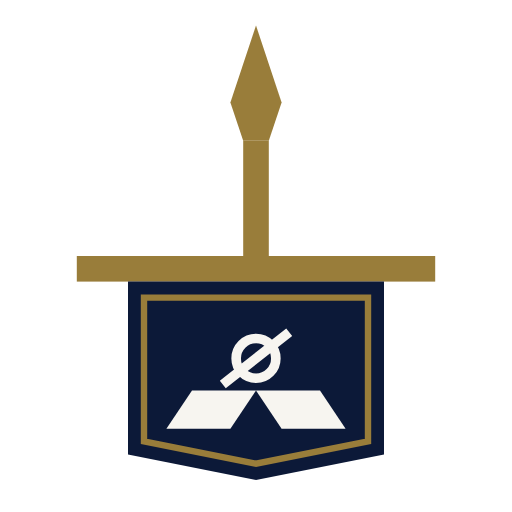
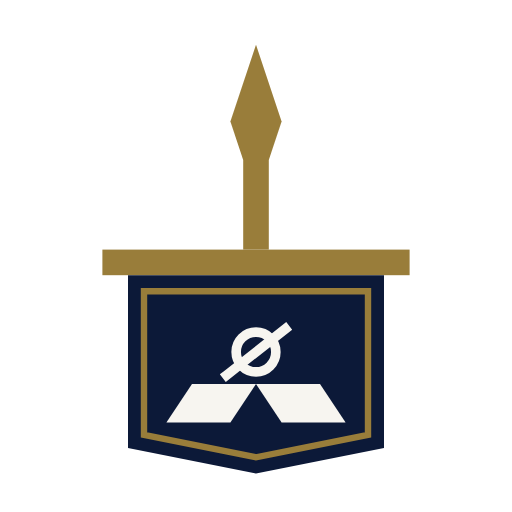
AH-203 fix round 1: a crisp blade, a shorter pole, a shorter bar, one gold edge at 32
A second blind judge preferred the hairline mark to AH-121's, 57 to 40, and named its defects: the blade a match head
or pin at 40 px and a "+" at 16, the pole long, the bar's overhang a sword's crossguard, a double edge at 32, a soft tip
and hem point at 64. Per size:
- 80: the pole 14 units (was 18), the bar 16 to 64 (4 past the banner, was 8), its weight kept at 4, the pole's: an
  earlier judge needed it to show at 32 px on navy, and one weight for both is plainer; the banner now 46% of the
  mark's height (was 44%); the blade, banner, gold line and emblem as before, 1 unit higher.
- 64: its own grid. Bar, banner, gold line and hem whole pixels (crispEdges), so the hem's point is sharp; the blade a
  flat 2 px tip and a 4 px base on whole pixels with straight sides (in 1 px steps it read as a tiered tower at 2x);
  pole 11 px (was 14), bar 3 px past the banner.
- 40: the blade whole-pixel rows, 2, 4, 6, 4 px, two rows each (slanted, it blurred into a match head at 1x); pole 3
  (was 4), bar 2 px past the banner, the banner a row taller.
- 32: the 40's stepped blade; pole 6 (was 8); bar 2 px past the banner (was 3, and the banner 2 px wider now); one gold
  rim on the banner's outside (no navy edge outside it); the ring 2 px around a 4 px hole, its slash 2 px past it.
- 16: a 2 px post with no arms (a tip over a 3 px block read as "+"), on an even axis; the banner 12 wide, a row taller;
  the bar 1 px past it; AH-121's ring and slash.
[…]

Changed region(s): [[0.25, 0.625, 0.75, 0.9375], [0.125, 0.4688, 0.875, 0.5938], [0.4375, 0.0625, 0.5625, 0.3125]]

diff --git a/site/index.html b/site/index.html
@@ -38,7 +38,7 @@
 <aside class="notice-bar" aria-label="Announcement"><p>Free for Windows · a scan never leaves your PC · <a href="#download">Download</a></p></aside>
 <header class="bar">
   <div class="wrap cols">
-    <a class="brand" href="#home" aria-label="Arcas home"><svg class="logo" viewBox="0 0 32 40" aria-hidden="true"><g data-part="spear" fill="#997D3A"><path d="M16 0 L17 1 L18 7 L17 10 H15 L14 7 L15 1 Z"/><rect x="15" y="10" width="2" height="4"/></g><rect data-part="bar" x="1" y="14" width="30" height="3" fill="#997D3A"/><g data-part="banner"><path d="M4 17 H28 V37 L16 40 L4 37 Z" fill="#0C1938"/><path d="M5.5 18.5 H26.5 V35.83 L16 38.45 L5.5 35.83 Z" fill="none" stroke="#997D3A" stroke-linejoin="miter"/></g><g data-part="emblem"><g fill="#F7F5F0"><path d="M16 32 H11 L9 35 H14 Z"/><path d="M16 32 H21 L23 35 H18 Z"/></g><circle cx="16" cy="26" r="3.25" fill="none" stroke="#F7F5F0" stroke-width="1.5"/><path d="M11.5 29.5 L19.5 21.5 L20.5 22.5 L12.5 30.5 Z" fill="#F7F5F0"/></g></svg><span>Arcas</span></a>
+    <a class="brand" href="#home" aria-label="Arcas home"><svg class="logo" viewBox="0 0 32 40" aria-hidden="true"><g data-part="spear" fill="#997D3A"><rect x="15" y="2" width="2" height="1"/><rect x="15" y="3" width="2" height="1"/><rect x="14" y="4" width="4" height="1"/><rect x="14" y="5" width="4" height="1"/><rect x="13" y="6" width="6" height="1"/><rect x="13" y="7" width="6" height="1"/><rect x="14" y="8" width="4" height="1"/><rect x="14" y="9" width="4" height="1"/><rect x="15" y="10" width="2" height="3"/></g><rect data-part="bar" x="2" y="13" width="28" height="3" fill="#997D3A"/><g data-part="banner"><path d="M4 16 H28 V37 L16 40 L4 37 Z" fill="#0C1938"/><path d="M5.5 17.5 H26.5 V35.83 L16 38.45 L5.5 35.83 Z" fill="none" stroke="#997D3A" stroke-linejoin="miter"/></g><g data-part="emblem"><g fill="#F7F5F0"><path d="M16 31 H11 L9 34 H14 Z"/><path d="M16 31 H21 L23 34 H18 Z"/></g><circle cx="16" cy="25" r="3.25" fill="none" stroke="#F7F5F0" stroke-width="1.5"/><path d="M11.5 28.5 L19.5 20.5 L20.5 21.5 L12.5 29.5 Z" fill="#F7F5F0"/></g></svg><span>Arcas</span></a>
     <button class="menu-btn" type="button" aria-expanded="false" aria-controls="main-nav">Menu</button><nav class="links" id="main-nav" aria-label="Main"><a href="index.html" aria-current="page">Product</a><a href="checks.html">Checks</a><a href="privacy.html">Privacy &amp; security</a><a href="support.html">Support</a><a class="btn-trim" href="#download">Download</a></nav>
   </div>
 </header>
@@ -320,7 +320,7 @@ Units jumped sharply near <span class="iso-date">2026-01-26</span>"</p>
       <p class="sec-lede calm reveal-item">On a work computer, ask your IT team first. Arcas installs only on a Windows account that is an administrator on that PC.</p>
       <div class="stage reveal-item">
         <!-- the mark: the Spear and Banner, its large drawing (docs/design/logo/mark-80.svg), one unit a pixel at 80 so every straight edge lands on a whole pixel at 240 and 320 px, flat site colors and solid navy details (AH-121); nothing here carries a transform at rest -->
-        <svg class="logo logo-lg" viewBox="0 0 80 80" aria-hidden="true"><g data-part="spear" fill="#997D3A"><path d="M40 4 L44 16 L42 22 H38 L36 16 Z"/><rect x="38" y="22" width="4" height="18"/></g><rect data-part="bar" x="12" y="40" width="56" height="4" fill="#997D3A"/><g data-part="banner"><path d="M20 44 H60 V71 L40 75 L20 71 Z" fill="#0C1938"/><path d="M22.5 46.5 H57.5 V68.95 L40 72.45 L22.5 68.95 Z" fill="none" stroke="#997D3A" stroke-linejoin="miter"/></g><g data-part="emblem"><g fill="#F7F5F0"><path d="M30 61 H40 L36 67 H26 Z"/><path d="M50 61 H40 L44 67 H54 Z"/></g><circle cx="40" cy="56" r="3.1" fill="none" stroke="#F7F5F0" stroke-width="1.5"/><path d="M35.4 59.62 L44.6 52.38" fill="none" stroke="#F7F5F0" stroke-width="1.5" stroke-linecap="square"/></g></svg>
+        <svg class="logo logo-lg" viewBox="0 0 80 80" aria-hidden="true"><g data-part="spear" fill="#997D3A"><path d="M40 7 L44 19 L42 25 H38 L36 19 Z"/><rect x="38" y="25" width="4" height="14"/></g><rect data-part="bar" x="16" y="39" width="48" height="4" fill="#997D3A"/><g data-part="banner"><path d="M20 43 H60 V70 L40 74 L20 70 Z" fill="#0C1938"/><path d="M22.5 45.5 H57.5 V67.95 L40 71.45 L22.5 67.95 Z" fill="none" stroke="#997D3A" stroke-linejoin="miter"/></g><g data-part="emblem"><g fill="#F7F5F0"><path d="M30 60 H40 L36 66 H26 Z"/><path d="M50 60 H40 L44 66 H54 Z"/></g><circle cx="40" cy="55" r="3.1" fill="none" stroke="#F7F5F0" stroke-width="1.5"/><path d="M35.4 58.62 L44.6 51.38" fill="none" stroke="#F7F5F0" stroke-width="1.5" stroke-linecap="square"/></g></svg>
         <a class="btn btn-primary" href="https://github.com/ricepillow3000/excel-anomaly-hunter/releases/latest/download/Arcas.exe"><svg viewBox="0 0 24 24" fill="none" stroke="currentColor" stroke-width="1.8" aria-hidden="true"><path d="M12 4v11M7 10l5 5 5-5M5 20h14"/></svg>Download for Windows</a>
         <p class="license-line">Free for any number of people. Open source under the <a href="https://github.com/ricepillow3000/excel-anomaly-hunter/blob/main/LICENSE">MIT License</a>.</p>
         <p class="stage-note">Your browser may say Arcas.exe isn't commonly downloaded. Click the three dots beside it, then Keep, then Keep anyway. It says this because the file is new and not signed yet.</p>

diff --git a/frontend/selfcheck.js b/frontend/selfcheck.js
@@ -10,6 +10,7 @@ import { read as readLimit } from "./pages/limits.js";
 import { strengthHint, asStrength, levelAt, levelWord } from "./pages/strength.js";
 import { exactFixes, safeUndo } from "./features/autofix.js";
 import { readdirSync, readFileSync } from "node:fs";
+import { inflateSync } from "node:zlib";
 import { hash, rowHash, codes, codeAt, asBook, decide, PER_SHEET, SHEETS } from "./features/decisions.js";
 import { WORKBOOK_KEYS } from "./features/forget.js";
 import { asHighlights, KEPT } from "./features/highlight.js";
@@ -911,6 +912,36 @@ for (const f of readdirSync(new URL(".", import.meta.url)).filter((f) => f.endsW
   assert.equal(checkedSaid("Series 3", ["B2:B500"]), 'Checked B2:B500 on "Series 3": nothing unusual.');
   assert.equal(checkedSaid("S", ["A1", "B2", "A1", "C3", "D4", "E5"]), 'Checked A1, B2, C3 and 2 more on "S": nothing unusual.', "each address once, 3 named");
   assert.equal(noteSaid("Sales", findingsAt(rows, s, {}, ["B3"])[0], 3, {}), 'Sheet "Sales", cell B3: Probably wrong. Units is 900, above its usual limit of 90 (likely 90). And 3 more in what you changed.');
+}
+
+// AH-203 fix round 1: the 16 and 32 px icons (ribbon, favicon, the pane's logo at 1x), read pixel by pixel. Each pixel is
+// gold, navy, paper or empty; one gold edge, never navy, meets the outside (a navy edge outside a gold line read as a
+// double edge on paper); at 16 the spear is a post no wider than 2 px (a tip over a 3 px block read as a "+" cross); at 32
+// it is pointed, its widest row 3 times its tip and held for 2 rows (a single wider row read as arms, a 4 px one as a club)
+{
+  const rgba = (file) => { // an 8-bit RGBA PNG, as Chromium writes it
+    const b = readFileSync(new URL(file, import.meta.url)), w = b.readUInt32BE(16), h = b.readUInt32BE(20), parts = [];
+    for (let i = 8; i < b.length; i += 12 + b.readUInt32BE(i)) if (b.toString("latin1", i + 4, i + 8) === "IDAT") parts.push(b.subarray(i + 8, i + 8 + b.readUInt32BE(i)));
+    const raw = inflateSync(Buffer.concat(parts)), out = Buffer.alloc(w * h * 4), row = w * 4;
+    for (let y = 0; y < h; y++) for (let x = 0; x < row; x++) {
+      const f = raw[y * (row + 1)], v = raw[y * (row + 1) + 1 + x], a = x >= 4 ? out[y * row + x - 4] : 0, up = y ? out[(y - 1) * row + x] : 0, c = x >= 4 && y ? out[(y - 1) * row + x - 4] : 0;
+      const p = a + up - c, pr = Math.abs(p - a) <= Math.abs(p - up) && Math.abs(p - a) <= Math.abs(p - c) ? a : Math.abs(p - up) <= Math.abs(p - c) ? up : c;
+      out[y * row + x] = (v + [0, a, up, (a + up) >> 1, pr][f]) & 255;
+    }
+    return { w, h, at: (x, y) => x < 0 || y < 0 || x >= w || y >= h ? "." : ({ "0,0,0,0": ".", "153,125,58,255": "g", "12,25,56,255": "n", "247,245,240,255": "p" })[[...out.subarray((y * w + x) * 4, (y * w + x) * 4 + 4)].join()] || "?" };
+  };
+  for (const n of [16, 32]) {
+    const { w, h, at } = rgba(`assets/crest3-${n}.png`), all = [];
+    for (let y = 0; y < h; y++) for (let x = 0; x < w; x++) all.push([x, y, at(x, y)]);
+    assert.deepEqual(all.filter(([, , c]) => c === "?").length, 0, `crest3-${n}.png: a pixel outside the palette`);
+    const edge = all.filter(([x, y, c]) => c === "n" && [[1, 0], [-1, 0], [0, 1], [0, -1]].some(([dx, dy]) => at(x + dx, y + dy) === "."));
+    assert.deepEqual(edge.length, 0, `crest3-${n}.png: navy meets the outside at ${edge.slice(0, 3).map(([x, y]) => x + "," + y).join(" ")}`);
+    const widths = [];
+    for (let y = 0; y < h; y++) { const xs = all.filter(([, yy, c]) => yy === y && c === "g").map(([x]) => x); if (xs.length && Math.max(...xs) - Math.min(...xs) + 1 > w / 2) break; if (xs.length) widths.push(Math.max(...xs) - Math.min(...xs) + 1); }
+    const top = Math.max(...widths);
+    if (n === 16) assert.ok(top <= 2, `crest3-16.png: the spear is ${top} px wide somewhere (rows ${widths}): arms read as a cross`);
+    else assert.ok(top >= 3 * widths[0] && widths.filter((x) => x === top).length >= 2, `crest3-32.png: the spear (rows ${widths}) is not pointed`);
+  }
 }
 
 console.log("panel self-check passed");

diff --git a/site/404.html b/site/404.html
@@ -19,7 +19,7 @@
 <aside class="notice-bar" aria-label="Announcement"><p>Free for Windows · a scan never leaves your PC · <a href="/excel-anomaly-hunter/index.html#download">Download</a></p></aside>
 <header class="bar">
   <div class="wrap cols">
-    <a class="brand" href="/excel-anomaly-hunter/" aria-label="Arcas home"><svg class="logo" viewBox="0 0 32 40" aria-hidden="true"><g data-part="spear" fill="#997D3A"><path d="M16 0 L17 1 L18 7 L17 10 H15 L14 7 L15 1 Z"/><rect x="15" y="10" width="2" height="4"/></g><rect data-part="bar" x="1" y="14" width="30" height="3" fill="#997D3A"/><g data-part="banner"><path d="M4 17 H28 V37 L16 40 L4 37 Z" fill="#0C1938"/><path d="M5.5 18.5 H26.5 V35.83 L16 38.45 L5.5 35.83 Z" fill="none" stroke="#997D3A" stroke-linejoin="miter"/></g><g data-part="emblem"><g fill="#F7F5F0"><path d="M16 32 H11 L9 35 H14 Z"/><path d="M16 32 H21 L23 35 H18 Z"/></g><circle cx="16" cy="26" r="3.25" fill="none" stroke="#F7F5F0" stroke-width="1.5"/><path d="M11.5 29.5 L19.5 21.5 L20.5 22.5 L12.5 30.5 Z" fill="#F7F5F0"/></g></svg><span>Arcas</span></a>
+    <a class="brand" href="/excel-anomaly-hunter/" aria-label="Arcas home"><svg class="logo" viewBox="0 0 32 40" aria-hidden="true"><g data-part="spear" fill="#997D3A"><rect x="15" y="2" width="2" height="1"/><rect x="15" y="3" width="2" height="1"/><rect x="14" y="4" width="4" height="1"/><rect x="14" y="5" width="4" height="1"/><rect x="13" y="6" width="6" height="1"/><rect x="13" y="7" width="6" height="1"/><rect x="14" y="8" width="4" height="1"/><rect x="14" y="9" width="4" height="1"/><rect x="15" y="10" width="2" height="3"/></g><rect data-part="bar" x="2" y="13" width="28" height="3" fill="#997D3A"/><g data-part="banner"><path d="M4 16 H28 V37 L16 40 L4 37 Z" fill="#0C1938"/><path d="M5.5 17.5 H26.5 V35.83 L16 38.45 L5.5 35.83 Z" fill="none" stroke="#997D3A" stroke-linejoin="miter"/></g><g data-part="emblem"><g fill="#F7F5F0"><path d="M16 31 H11 L9 34 H14 Z"/><path d="M16 31 H21 L23 34 H18 Z"/></g><circle cx="16" cy="25" r="3.25" fill="none" stroke="#F7F5F0" stroke-width="1.5"/><path d="M11.5 28.5 L19.5 20.5 L20.5 21.5 L12.5 29.5 Z" fill="#F7F5F0"/></g></svg><span>Arcas</span></a>
     <nav class="links" aria-label="Main"><a href="/excel-anomaly-hunter/">Product</a><a href="/excel-anomaly-hunter/checks.html">Checks</a><a href="/excel-anomaly-hunter/privacy.html">Privacy &amp; security</a><a href="/excel-anomaly-hunter/support.html">Support</a><a class="btn-trim" href="/excel-anomaly-hunter/index.html#download">Download</a></nav>
   </div>
 </header>

diff --git a/site/checks.html b/site/checks.html
@@ -33,7 +33,7 @@
 <aside class="notice-bar" aria-label="Announcement"><p>Free for Windows · a scan never leaves your PC · <a href="index.html#download">Download</a></p></aside>
 <header class="bar">
   <div class="wrap cols">
-    <a class="brand" href="index.html" aria-label="Arcas home"><svg class="logo" viewBox="0 0 32 40" aria-hidden="true"><g data-part="spear" fill="#997D3A"><path d="M16 0 L17 1 L18 7 L17 10 H15 L14 7 L15 1 Z"/><rect x="15" y="10" width="2" height="4"/></g><rect data-part="bar" x="1" y="14" width="30" height="3" fill="#997D3A"/><g data-part="banner"><path d="M4 17 H28 V37 L16 40 L4 37 Z" fill="#0C1938"/><path d="M5.5 18.5 H26.5 V35.83 L16 38.45 L5.5 35.83 Z" fill="none" stroke="#997D3A" stroke-linejoin="miter"/></g><g data-part="emblem"><g fill="#F7F5F0"><path d="M16 32 H11 L9 35 H14 Z"/><path d="M16 32 H21 L23 35 H18 Z"/></g><circle cx="16" cy="26" r="3.25" fill="none" stroke="#F7F5F0" stroke-width="1.5"/><path d="M11.5 29.5 L19.5 21.5 L20.5 22.5 L12.5 30.5 Z" fill="#F7F5F0"/></g></svg><span>Arcas</span></a>
+    <a class="brand" href="index.html" aria-label="Arcas home"><svg class="logo" viewBox="0 0 32 40" aria-hidden="true"><g data-part="spear" fill="#997D3A"><rect x="15" y="2" width="2" height="1"/><rect x="15" y="3" width="2" height="1"/><rect x="14" y="4" width="4" height="1"/><rect x="14" y="5" width="4" height="1"/><rect x="13" y="6" width="6" height="1"/><rect x="13" y="7" width="6" height="1"/><rect x="14" y="8" width="4" height="1"/><rect x="14" y="9" width="4" height="1"/><rect x="15" y="10" width="2" height="3"/></g><rect data-part="bar" x="2" y="13" width="28" height="3" fill="#997D3A"/><g data-part="banner"><path d="M4 16 H28 V37 L16 40 L4 37 Z" fill="#0C1938"/><path d="M5.5 17.5 H26.5 V35.83 L16 38.45 L5.5 35.83 Z" fill="none" stroke="#997D3A" stroke-linejoin="miter"/></g><g data-part="emblem"><g fill="#F7F5F0"><path d="M16 31 H11 L9 34 H14 Z"/><path d="M16 31 H21 L23 34 H18 Z"/></g><circle cx="16" cy="25" r="3.25" fill="none" stroke="#F7F5F0" stroke-width="1.5"/><path d="M11.5 28.5 L19.5 20.5 L20.5 21.5 L12.5 29.5 Z" fill="#F7F5F0"/></g></svg><span>Arcas</span></a>
     <button class="menu-btn" type="button" aria-expanded="false" aria-controls="main-nav">Menu</button><nav class="links" id="main-nav" aria-label="Main"><a href="index.html">Product</a><a href="checks.html" aria-current="page">Checks</a><a href="privacy.html">Privacy &amp; security</a><a href="support.html">Support</a><a class="btn-trim" href="index.html#download">Download</a></nav>
   </div>
 </header>

diff --git a/site/privacy.html b/site/privacy.html
@@ -35,7 +35,7 @@
 <aside class="notice-bar" aria-label="Announcement"><p>Free for Windows · a scan never leaves your PC · <a href="index.html#download">Download</a></p></aside>
 <header class="bar">
   <div class="wrap cols">
-    <a class="brand" href="index.html" aria-label="Arcas home"><svg class="logo" viewBox="0 0 32 40" aria-hidden="true"><g data-part="spear" fill="#997D3A"><path d="M16 0 L17 1 L18 7 L17 10 H15 L14 7 L15 1 Z"/><rect x="15" y="10" width="2" height="4"/></g><rect data-part="bar" x="1" y="14" width="30" height="3" fill="#997D3A"/><g data-part="banner"><path d="M4 17 H28 V37 L16 40 L4 37 Z" fill="#0C1938"/><path d="M5.5 18.5 H26.5 V35.83 L16 38.45 L5.5 35.83 Z" fill="none" stroke="#997D3A" stroke-linejoin="miter"/></g><g data-part="emblem"><g fill="#F7F5F0"><path d="M16 32 H11 L9 35 H14 Z"/><path d="M16 32 H21 L23 35 H18 Z"/></g><circle cx="16" cy="26" r="3.25" fill="none" stroke="#F7F5F0" stroke-width="1.5"/><path d="M11.5 29.5 L19.5 21.5 L20.5 22.5 L12.5 30.5 Z" fill="#F7F5F0"/></g></svg><span>Arcas</span></a>
+    <a class="brand" href="index.html" aria-label="Arcas home"><svg class="logo" viewBox="0 0 32 40" aria-hidden="true"><g data-part="spear" fill="#997D3A"><rect x="15" y="2" width="2" height="1"/><rect x="15" y="3" width="2" height="1"/><rect x="14" y="4" width="4" height="1"/><rect x="14" y="5" width="4" height="1"/><rect x="13" y="6" width="6" height="1"/><rect x="13" y="7" width="6" height="1"/><rect x="14" y="8" width="4" height="1"/><rect x="14" y="9" width="4" height="1"/><rect x="15" y="10" width="2" height="3"/></g><rect data-part="bar" x="2" y="13" width="28" height="3" fill="#997D3A"/><g data-part="banner"><path d="M4 16 H28 V37 L16 40 L4 37 Z" fill="#0C1938"/><path d="M5.5 17.5 H26.5 V35.83 L16 38.45 L5.5 35.83 Z" fill="none" stroke="#997D3A" stroke-linejoin="miter"/></g><g data-part="emblem"><g fill="#F7F5F0"><path d="M16 31 H11 L9 34 H14 Z"/><path d="M16 31 H21 L23 34 H18 Z"/></g><circle cx="16" cy="25" r="3.25" fill="none" stroke="#F7F5F0" stroke-width="1.5"/><path d="M11.5 28.5 L19.5 20.5 L20.5 21.5 L12.5 29.5 Z" fill="#F7F5F0"/></g></svg><span>Arcas</span></a>
     <button class="menu-btn" type="button" aria-expanded="false" aria-controls="main-nav">Menu</button><nav class="links" id="main-nav" aria-label="Main"><a href="index.html">Product</a><a href="checks.html">Checks</a><a href="privacy.html" aria-current="page">Privacy &amp; security</a><a href="support.html">Support</a><a class="btn-trim" href="index.html#download">Download</a></nav>
   </div>
 </header>

diff --git a/site/support.html b/site/support.html
@@ -33,7 +33,7 @@
 <aside class="notice-bar" aria-label="Announcement"><p>Free for Windows · a scan never leaves your PC · <a href="index.html#download">Download</a></p></aside>
 <header class="bar">
   <div class="wrap cols">
-    <a class="brand" href="index.html" aria-label="Arcas home"><svg class="logo" viewBox="0 0 32 40" aria-hidden="true"><g data-part="spear" fill="#997D3A"><path d="M16 0 L17 1 L18 7 L17 10 H15 L14 7 L15 1 Z"/><rect x="15" y="10" width="2" height="4"/></g><rect data-part="bar" x="1" y="14" width="30" height="3" fill="#997D3A"/><g data-part="banner"><path d="M4 17 H28 V37 L16 40 L4 37 Z" fill="#0C1938"/><path d="M5.5 18.5 H26.5 V35.83 L16 38.45 L5.5 35.83 Z" fill="none" stroke="#997D3A" stroke-linejoin="miter"/></g><g data-part="emblem"><g fill="#F7F5F0"><path d="M16 32 H11 L9 35 H14 Z"/><path d="M16 32 H21 L23 35 H18 Z"/></g><circle cx="16" cy="26" r="3.25" fill="none" stroke="#F7F5F0" stroke-width="1.5"/><path d="M11.5 29.5 L19.5 21.5 L20.5 22.5 L12.5 30.5 Z" fill="#F7F5F0"/></g></svg><span>Arcas</span></a>
+    <a class="brand" href="index.html" aria-label="Arcas home"><svg class="logo" viewBox="0 0 32 40" aria-hidden="true"><g data-part="spear" fill="#997D3A"><rect x="15" y="2" width="2" height="1"/><rect x="15" y="3" width="2" height="1"/><rect x="14" y="4" width="4" height="1"/><rect x="14" y="5" width="4" height="1"/><rect x="13" y="6" width="6" height="1"/><rect x="13" y="7" width="6" height="1"/><rect x="14" y="8" width="4" height="1"/><rect x="14" y="9" width="4" height="1"/><rect x="15" y="10" width="2" height="3"/></g><rect data-part="bar" x="2" y="13" width="28" height="3" fill="#997D3A"/><g data-part="banner"><path d="M4 16 H28 V37 L16 40 L4 37 Z" fill="#0C1938"/><path d="M5.5 17.5 H26.5 V35.83 L16 38.45 L5.5 35.83 Z" fill="none" stroke="#997D3A" stroke-linejoin="miter"/></g><g data-part="emblem"><g fill="#F7F5F0"><path d="M16 31 H11 L9 34 H14 Z"/><path d="M16 31 H21 L23 34 H18 Z"/></g><circle cx="16" cy="25" r="3.25" fill="none" stroke="#F7F5F0" stroke-width="1.5"/><path d="M11.5 28.5 L19.5 20.5 L20.5 21.5 L12.5 29.5 Z" fill="#F7F5F0"/></g></svg><span>Arcas</span></a>
     <button class="menu-btn" type="button" aria-expanded="false" aria-controls="main-nav">Menu</button><nav class="links" id="main-nav" aria-label="Main"><a href="index.html">Product</a><a href="checks.html">Checks</a><a href="privacy.html">Privacy &amp; security</a><a href="support.html" aria-current="page">Support</a><a class="btn-trim" href="index.html#download">Download</a></nav>
   </div>
 </header>

diff --git a/site/cases.html b/site/cases.html
@@ -33,7 +33,7 @@
 <aside class="notice-bar" aria-label="Announcement"><p>Free for Windows · a scan never leaves your PC · <a href="index.html#download">Download</a></p></aside>
 <header class="bar">
   <div class="wrap cols">
-    <a class="brand" href="index.html" aria-label="Arcas home"><svg class="logo" viewBox="0 0 32 40" aria-hidden="true"><g data-part="spear" fill="#997D3A"><path d="M16 0 L17 1 L18 7 L17 10 H15 L14 7 L15 1 Z"/><rect x="15" y="10" width="2" height="4"/></g><rect data-part="bar" x="1" y="14" width="30" height="3" fill="#997D3A"/><g data-part="banner"><path d="M4 17 H28 V37 L16 40 L4 37 Z" fill="#0C1938"/><path d="M5.5 18.5 H26.5 V35.83 L16 38.45 L5.5 35.83 Z" fill="none" stroke="#997D3A" stroke-linejoin="miter"/></g><g data-part="emblem"><g fill="#F7F5F0"><path d="M16 32 H11 L9 35 H14 Z"/><path d="M16 32 H21 L23 35 H18 Z"/></g><circle cx="16" cy="26" r="3.25" fill="none" stroke="#F7F5F0" stroke-width="1.5"/><path d="M11.5 29.5 L19.5 21.5 L20.5 22.5 L12.5 30.5 Z" fill="#F7F5F0"/></g></svg><span>Arcas</span></a>
+    <a class="brand" href="index.html" aria-label="Arcas home"><svg class="logo" viewBox="0 0 32 40" aria-hidden="true"><g data-part="spear" fill="#997D3A"><rect x="15" y="2" width="2" height="1"/><rect x="15" y="3" width="2" height="1"/><rect x="14" y="4" width="4" height="1"/><rect x="14" y="5" width="4" height="1"/><rect x="13" y="6" width="6" height="1"/><rect x="13" y="7" width="6" height="1"/><rect x="14" y="8" width="4" height="1"/><rect x="14" y="9" width="4" height="1"/><rect x="15" y="10" width="2" height="3"/></g><rect data-part="bar" x="2" y="13" width="28" height="3" fill="#997D3A"/><g data-part="banner"><path d="M4 16 H28 V37 L16 40 L4 37 Z" fill="#0C1938"/><path d="M5.5 17.5 H26.5 V35.83 L16 38.45 L5.5 35.83 Z" fill="none" stroke="#997D3A" stroke-linejoin="miter"/></g><g data-part="emblem"><g fill="#F7F5F0"><path d="M16 31 H11 L9 34 H14 Z"/><path d="M16 31 H21 L23 34 H18 Z"/></g><circle cx="16" cy="25" r="3.25" fill="none" stroke="#F7F5F0" stroke-width="1.5"/><path d="M11.5 28.5 L19.5 20.5 L20.5 21.5 L12.5 29.5 Z" fill="#F7F5F0"/></g></svg><span>Arcas</span></a>
     <button class="menu-btn" type="button" aria-expanded="false" aria-controls="main-nav">Menu</button><nav class="links" id="main-nav" aria-label="Main"><a href="index.html">Product</a><a href="checks.html">Checks</a><a href="privacy.html">Privacy &amp; security</a><a href="support.html">Support</a><a class="btn-trim" href="index.html#download">Download</a></nav>
   </div>
 </header>

diff --git a/site/code-signing.html b/site/code-signing.html
@@ -33,7 +33,7 @@
 <aside class="notice-bar" aria-label="Announcement"><p>Free for Windows · a scan never leaves your PC · <a href="index.html#download">Download</a></p></aside>
 <header class="bar">
   <div class="wrap cols">
-    <a class="brand" href="index.html" aria-label="Arcas home"><svg class="logo" viewBox="0 0 32 40" aria-hidden="true"><g data-part="spear" fill="#997D3A"><path d="M16 0 L17 1 L18 7 L17 10 H15 L14 7 L15 1 Z"/><rect x="15" y="10" width="2" height="4"/></g><rect data-part="bar" x="1" y="14" width="30" height="3" fill="#997D3A"/><g data-part="banner"><path d="M4 17 H28 V37 L16 40 L4 37 Z" fill="#0C1938"/><path d="M5.5 18.5 H26.5 V35.83 L16 38.45 L5.5 35.83 Z" fill="none" stroke="#997D3A" stroke-linejoin="miter"/></g><g data-part="emblem"><g fill="#F7F5F0"><path d="M16 32 H11 L9 35 H14 Z"/><path d="M16 32 H21 L23 35 H18 Z"/></g><circle cx="16" cy="26" r="3.25" fill="none" stroke="#F7F5F0" stroke-width="1.5"/><path d="M11.5 29.5 L19.5 21.5 L20.5 22.5 L12.5 30.5 Z" fill="#F7F5F0"/></g></svg><span>Arcas</span></a>
+    <a class="brand" href="index.html" aria-label="Arcas home"><svg class="logo" viewBox="0 0 32 40" aria-hidden="true"><g data-part="spear" fill="#997D3A"><rect x="15" y="2" width="2" height="1"/><rect x="15" y="3" width="2" height="1"/><rect x="14" y="4" width="4" height="1"/><rect x="14" y="5" width="4" height="1"/><rect x="13" y="6" width="6" height="1"/><rect x="13" y="7" width="6" height="1"/><rect x="14" y="8" width="4" height="1"/><rect x="14" y="9" width="4" height="1"/><rect x="15" y="10" width="2" height="3"/></g><rect data-part="bar" x="2" y="13" width="28" height="3" fill="#997D3A"/><g data-part="banner"><path d="M4 16 H28 V37 L16 40 L4 37 Z" fill="#0C1938"/><path d="M5.5 17.5 H26.5 V35.83 L16 38.45 L5.5 35.83 Z" fill="none" stroke="#997D3A" stroke-linejoin="miter"/></g><g data-part="emblem"><g fill="#F7F5F0"><path d="M16 31 H11 L9 34 H14 Z"/><path d="M16 31 H21 L23 34 H18 Z"/></g><circle cx="16" cy="25" r="3.25" fill="none" stroke="#F7F5F0" stroke-width="1.5"/><path d="M11.5 28.5 L19.5 20.5 L20.5 21.5 L12.5 29.5 Z" fill="#F7F5F0"/></g></svg><span>Arcas</span></a>
     <button class="menu-btn" type="button" aria-expanded="false" aria-controls="main-nav">Menu</button><nav class="links" id="main-nav" aria-label="Main"><a href="index.html">Product</a><a href="checks.html">Checks</a><a href="privacy.html">Privacy &amp; security</a><a href="support.html">Support</a><a class="btn-trim" href="index.html#download">Download</a></nav>
   </div>
 </header>

diff --git a/site/terms.html b/site/terms.html
@@ -33,7 +33,7 @@
 <aside class="notice-bar" aria-label="Announcement"><p>Free for Windows · a scan never leaves your PC · <a href="index.html#download">Download</a></p></aside>
 <header class="bar">
   <div class="wrap cols">
-    <a class="brand" href="index.html" aria-label="Arcas home"><svg class="logo" viewBox="0 0 32 40" aria-hidden="true"><g data-part="spear" fill="#997D3A"><path d="M16 0 L17 1 L18 7 L17 10 H15 L14 7 L15 1 Z"/><rect x="15" y="10" width="2" height="4"/></g><rect data-part="bar" x="1" y="14" width="30" height="3" fill="#997D3A"/><g data-part="banner"><path d="M4 17 H28 V37 L16 40 L4 37 Z" fill="#0C1938"/><path d="M5.5 18.5 H26.5 V35.83 L16 38.45 L5.5 35.83 Z" fill="none" stroke="#997D3A" stroke-linejoin="miter"/></g><g data-part="emblem"><g fill="#F7F5F0"><path d="M16 32 H11 L9 35 H14 Z"/><path d="M16 32 H21 L23 35 H18 Z"/></g><circle cx="16" cy="26" r="3.25" fill="none" stroke="#F7F5F0" stroke-width="1.5"/><path d="M11.5 29.5 L19.5 21.5 L20.5 22.5 L12.5 30.5 Z" fill="#F7F5F0"/></g></svg><span>Arcas</span></a>
+    <a class="brand" href="index.html" aria-label="Arcas home"><svg class="logo" viewBox="0 0 32 40" aria-hidden="true"><g data-part="spear" fill="#997D3A"><rect x="15" y="2" width="2" height="1"/><rect x="15" y="3" width="2" height="1"/><rect x="14" y="4" width="4" height="1"/><rect x="14" y="5" width="4" height="1"/><rect x="13" y="6" width="6" height="1"/><rect x="13" y="7" width="6" height="1"/><rect x="14" y="8" width="4" height="1"/><rect x="14" y="9" width="4" height="1"/><rect x="15" y="10" width="2" height="3"/></g><rect data-part="bar" x="2" y="13" width="28" height="3" fill="#997D3A"/><g data-part="banner"><path d="M4 16 H28 V37 L16 40 L4 37 Z" fill="#0C1938"/><path d="M5.5 17.5 H26.5 V35.83 L16 38.45 L5.5 35.83 Z" fill="none" stroke="#997D3A" stroke-linejoin="miter"/></g><g data-part="emblem"><g fill="#F7F5F0"><path d="M16 31 H11 L9 34 H14 Z"/><path d="M16 31 H21 L23 34 H18 Z"/></g><circle cx="16" cy="25" r="3.25" fill="none" stroke="#F7F5F0" stroke-width="1.5"/><path d="M11.5 28.5 L19.5 20.5 L20.5 21.5 L12.5 29.5 Z" fill="#F7F5F0"/></g></svg><span>Arcas</span></a>
     <button class="menu-btn" type="button" aria-expanded="false" aria-controls="main-nav">Menu</button><nav class="links" id="main-nav" aria-label="Main"><a href="index.html">Product</a><a href="checks.html">Checks</a><a href="privacy.html">Privacy &amp; security</a><a href="support.html">Support</a><a class="btn-trim" href="index.html#download">Download</a></nav>
   </div>
 </header>

diff --git a/site/thanks.html b/site/thanks.html
@@ -34,7 +34,7 @@
 <aside class="notice-bar" aria-label="Announcement"><p>Free for Windows · a scan never leaves your PC · <a href="index.html#download">Download</a></p></aside>
 <header class="bar">
   <div class="wrap cols">
-    <a class="brand" href="index.html" aria-label="Arcas home"><svg class="logo" viewBox="0 0 32 40" aria-hidden="true"><g data-part="spear" fill="#997D3A"><path d="M16 0 L17 1 L18 7 L17 10 H15 L14 7 L15 1 Z"/><rect x="15" y="10" width="2" height="4"/></g><rect data-part="bar" x="1" y="14" width="30" height="3" fill="#997D3A"/><g data-part="banner"><path d="M4 17 H28 V37 L16 40 L4 37 Z" fill="#0C1938"/><path d="M5.5 18.5 H26.5 V35.83 L16 38.45 L5.5 35.83 Z" fill="none" stroke="#997D3A" stroke-linejoin="miter"/></g><g data-part="emblem"><g fill="#F7F5F0"><path d="M16 32 H11 L9 35 H14 Z"/><path d="M16 32 H21 L23 35 H18 Z"/></g><circle cx="16" cy="26" r="3.25" fill="none" stroke="#F7F5F0" stroke-width="1.5"/><path d="M11.5 29.5 L19.5 21.5 L20.5 22.5 L12.5 30.5 Z" fill="#F7F5F0"/></g></svg><span>Arcas</span></a>
+    <a class="brand" href="index.html" aria-label="Arcas home"><svg class="logo" viewBox="0 0 32 40" aria-hidden="true"><g data-part="spear" fill="#997D3A"><rect x="15" y="2" width="2" height="1"/><rect x="15" y="3" width="2" height="1"/><rect x="14" y="4" width="4" height="1"/><rect x="14" y="5" width="4" height="1"/><rect x="13" y="6" width="6" height="1"/><rect x="13" y="7" width="6" height="1"/><rect x="14" y="8" width="4" height="1"/><rect x="14" y="9" width="4" height="1"/><rect x="15" y="10" width="2" height="3"/></g><rect data-part="bar" x="2" y="13" width="28" height="3" fill="#997D3A"/><g data-part="banner"><path d="M4 16 H28 V37 L16 40 L4 37 Z" fill="#0C1938"/><path d="M5.5 17.5 H26.5 V35.83 L16 38.45 L5.5 35.83 Z" fill="none" stroke="#997D3A" stroke-linejoin="miter"/></g><g data-part="emblem"><g fill="#F7F5F0"><path d="M16 31 H11 L9 34 H14 Z"/><path d="M16 31 H21 L23 34 H18 Z"/></g><circle cx="16" cy="25" r="3.25" fill="none" stroke="#F7F5F0" stroke-width="1.5"/><path d="M11.5 28.5 L19.5 20.5 L20.5 21.5 L12.5 29.5 Z" fill="#F7F5F0"/></g></svg><span>Arcas</span></a>
     <button class="menu-btn" type="button" aria-expanded="false" aria-controls="main-nav">Menu</button><nav class="links" id="main-nav" aria-label="Main"><a href="index.html">Product</a><a href="checks.html">Checks</a><a href="privacy.html">Privacy &amp; security</a><a href="support.html">Support</a><a class="btn-trim" href="index.html#download">Download</a></nav>
   </div>
 </header>

diff --git a/docs/design/logo/README.md b/docs/design/logo/README.md
@@ -28,15 +28,31 @@ What changed:
 - The banner hangs straight from the bar. Its rim is a one-unit gold line set 2 units in from its edge, following the V
   hem: the site's hairline box and the pane's navy band with its gold line. On the navy band the banner's edge melts into
   the band and this line draws its shape (B21).
-- The emblem is John's, at its size, 4 units higher on the 80 than AH-121's, in the room the drape left.
+- The emblem is John's, at its size, in the room the drape left.
+
+Fix round 1 (a second blind judge preferred this mark to AH-121's 57 to 40, and named its defects):
+- The blade read as a match head or a pin at 40 px (a slanted edge blurs at 1x) and as a "+" cross at 16. At 40 and 32
+  it is now whole-pixel rows, 2, 4, 6 and 4 px wide, two rows each (uneven steps read as a tiered tower, a single wider
+  row as arms); at 16 a 2 px post with no arms; at 64 a flat 2 px tip and a 4 px base on whole pixels with straight
+  sides (1 px steps read as a tower at 2x).
+- The pole is about 25% shorter at every size (14 units on the 80, was 18), so the banner is over 45% of the mark's
+  height.
+- The bar passes the banner by about 8% of its width each side (4 units on the 80, 3 px on the 64, 2 on the 40 and the
+  32, 1 on the 16; it was 8 on the 80, a quarter of the banner, and read as a sword's crossguard). Its weight stays 4
+  units, the pole's: an earlier judge needed it heavy enough to show at 32 px on navy, and one weight for pole and bar
+  is plainer than a 3 beside a 4.
+- At 32 one gold edge, the rim on the banner's outside (a navy edge outside the gold line read as a double edge on
+  paper), and the ring redrawn: 2 px around a 4 px hole, its 1 px slash 2 px past the ring at each end.
+- At 64 the bar, banner, gold line and the hem's point are whole pixels (`crispEdges`), so the point is sharp.
+- No lighter navy or cream outer edge for dark backgrounds (B1, R31; B21: the gold carries it on navy), no notch.
 
 | Drawing | Grid | Used for | What it keeps |
 |---|---|---|---|
-| `mark-80.svg` | 80, 1 unit = 1 px | the download's logo (160 px, 2 px a unit), `crest3-80.png` (ribbon 80), the exe's 256, the site's 192 and 512 icons, the 180 on paper, the sharing card (at 320) | everything: a leaf blade from a point at y 4 to 8 wide at y 16 and 4 at y 22, the pole 38 to 42 down to y 40, the bar 12 to 68 from y 40 to 44, the banner 20 to 60 from y 44 with its hem at 71 and its point at 75, the gold line 2 units in, the emblem (panels 61 to 67, the ring at y 56) |
-| `mark-64.svg` | 64 | `crest3-64.png`: the pane's logo at 2x, the manifest's high resolution icon, the 64 px favicon, the exe's 64 | the same parts redrawn on their own grid (never 80 scaled by .8): pole and bar 4 px, which is the 2 CSS px the pane's navy band needs at 2x; the blade 8 at its widest; the gold line 1 px set 2 px in; AH-121's 64 px emblem, 3 px higher |
-| `mark-40.svg` | 32 x 40, 1 unit = 1 CSS px | the site header (inline, 40 px tall, `aspect-ratio: 32 / 40`), the exe's 48 (drawn 1:1, centred) | a tip 2 px wide from its second row (a needle point faded to a gradient at 1x), the blade 4 at its widest, the pole 2 and the bar 3 (the 80's 4 units scaled to this banner), the gold line 1 px set 1 px in, the ring's stroke 1.5 px; sharp at 1x, smooth at 2x and 3x |
-| `mark-32.svg` | 32 | `crest3-32.png`: favicon, ribbon 32, the pane's logo at 1x, the exe's 32 | placed pixel by pixel: the tip 2 px, the blade 4, the pole and the bar 2 px solid, a navy row under the bar, the gold line 1 px set 1 px in with its hem a V of 3 px steps, and the emblem as AH-121's 32 px ring alone: a 2 px ring whose hole a 1 px slash splits into two navy corners (the panels were a smear at this size) |
-| `mark-16.svg` | 16 | `crest3-16.png`: favicon, ribbon 16, the exe's 16 | placed pixel by pixel, centred on column 7: a 1 px tip over a 3 px blade, the bar, and the banner with its gold line on the edge, the bar standing for its top (set 1 px in it left the ring no gap and read as nested squares), and AH-121's 1 px ring with a 1 px slash poking past it |
+| `mark-80.svg` | 80, 1 unit = 1 px | the download's logo (160 px, 2 px a unit), `crest3-80.png` (ribbon 80), the exe's 256, the site's 192 and 512 icons, the 180 on paper, the sharing card (at 320) | everything: a leaf blade from a point at y 7 to 8 wide at y 19 and 4 at y 25, the pole 38 to 42 down to y 39, the bar 16 to 64 from y 39 to 43, the banner 20 to 60 from y 43 with its hem at 70 and its point at 74, the gold line 2 units in, the emblem (panels 60 to 66, the ring at y 55) |
+| `mark-64.svg` | 64 | `crest3-64.png`: the pane's logo at 2x, the manifest's high resolution icon, the 64 px favicon, the exe's 64 | its own grid (never 80 scaled by .8): the bar, banner, gold line and hem whole pixels; the blade a flat 2 px tip to 8 px to a 4 px base on whole pixels; pole and bar 4 px (2 CSS px on the pane's navy band at 2x), the bar 3 px past the banner; the gold line 1 px set 2 px in; AH-121's 64 px emblem, drawn smooth |
+| `mark-40.svg` | 32 x 40, 1 unit = 1 CSS px | the site header (inline, 40 px tall, `aspect-ratio: 32 / 40`), the exe's 48 (drawn 1:1, centred) | the blade whole-pixel rows (2, 4, 6, 4 px, two rows each), the pole 2 by 3, the bar 3 and 2 px past the banner, the banner 24 by 24, the gold line 1 px set 1 px in, the ring's stroke 1.5 px; sharp at 1x, smooth at 2x and 3x |
+| `mark-32.svg` | 32 | `crest3-32.png`: favicon, ribbon 32, the pane's logo at 1x, the exe's 32 | placed pixel by pixel: the 40's stepped blade, a 6 px pole, the bar 2 px solid and 2 px past the banner, one gold rim on the banner's outside with its hem a V of 3, 3, 2 and 2 px steps, and the emblem as the ring alone: 2 px around a 4 px hole, a 1 px slash 2 px past it at each end (the panels were a smear at this size) |
+| `mark-16.svg` | 16 | `crest3-16.png`: favicon, ribbon 16, the exe's 16 | placed pixel by pixel, centred between columns 7 and 8: a 2 px post with no arms, the bar 1 px past the banner, the banner with its gold rim on the edge, the bar standing for its top, and AH-121's 1 px ring with a 1 px slash poking past it |
 
 - Render with Chromium at 1x on a transparent background, each file at its own size (the 16 and 32 px PNGs must hold only
   the three palette colours and fully transparent pixels): `mark-16.svg` at 16 to `frontend/assets/crest3-16.png`,
@@ -49,16 +65,19 @@ What changed:
 - `site/assets/og-card.png` (1200 x 630): the left panel, paper-2 #EFECE4 from x 0 to 424, with `mark-80.svg` at 320 px
   whose top left corner is at (52, 156); the rest of the card unchanged; saved as a 256-colour PNG (`+dither -colors 256`).
 - The site's inline copies are these files without comments: `mark-40.svg` in the header of every page, `mark-80.svg`
-  above the Download button; `tools/test_site.mjs` checks every page holds them as they are here. Their `data-part`
-  groups (spear, bar, banner, emblem) are what its browser check reads: the spear and bar fill gold, the banner navy with
-  its gold line a stroke, the emblem paper; the spear stands on the bar over the banner's middle, the bar sits on the
-  banner and is wider than it, and the emblem lies inside the gold line.
+  above the Download button; `tools/test_site.mjs` checks every page holds them as they are here, and that the header's
+  blade is whole-pixel rects. Their `data-part` groups (spear, bar, banner, emblem) are what its browser check reads: the
+  spear and bar fill gold, the banner navy with its gold line a stroke, the emblem paper; the spear stands on the bar
+  over the banner's middle, the bar sits on the banner and passes it by at most a tenth of its width each side, the
+  banner is at least 45% of the mark's height, and the emblem lies inside the gold line. `frontend/selfcheck.js` reads
+  the 16 and 32 px PNGs pixel by pixel: only the palette, no navy meeting the outside, a 16 px spear no wider than 2 px,
+  and a pointed 32 px blade.
 - Office caches ribbon icons per URL: new art gets new file names and a `<Version>` bump in `frontend/manifest.xml`
   (`crest3-*.png` and 1.0.9.0 for this one), and every older name still answers with today's crest (`server.OLD_ICONS`).
 
-Palette (the tokens in `site/styles.css`): gold #997D3A for the spear, pole, bar and the banner's line; navy #0C1938 for
-the banner; paper #F7F5F0 for the emblem.
+Palette (the tokens in `site/styles.css`): gold #997D3A for the spear, pole, bar and the banner's line or rim; navy
+#0C1938 for the banner; paper #F7F5F0 for the emblem.
 
-Honest weaknesses: at 16 px the gold line is the banner's edge, not set in, and the 3 px blade on its 1 px pole can read
-as a small cross; at 64 px on the pane (32 CSS px at 2x) the gold line is one device pixel; the 80's blade has a point at
-its tip, so at 80 px at 1x its first rows are a blend.
+Honest weaknesses: at 16 and 32 px the gold line is the banner's edge, not set in, so on the pane's navy band at 1x
+the banner is a gold outline; at 16 the spear is a plain post, with no point; the 40's and 32's stepped blade shows its
+steps at 2x and 3x; the 64's blade sides and the 80's tip are slanted, so they blend at 1x.
